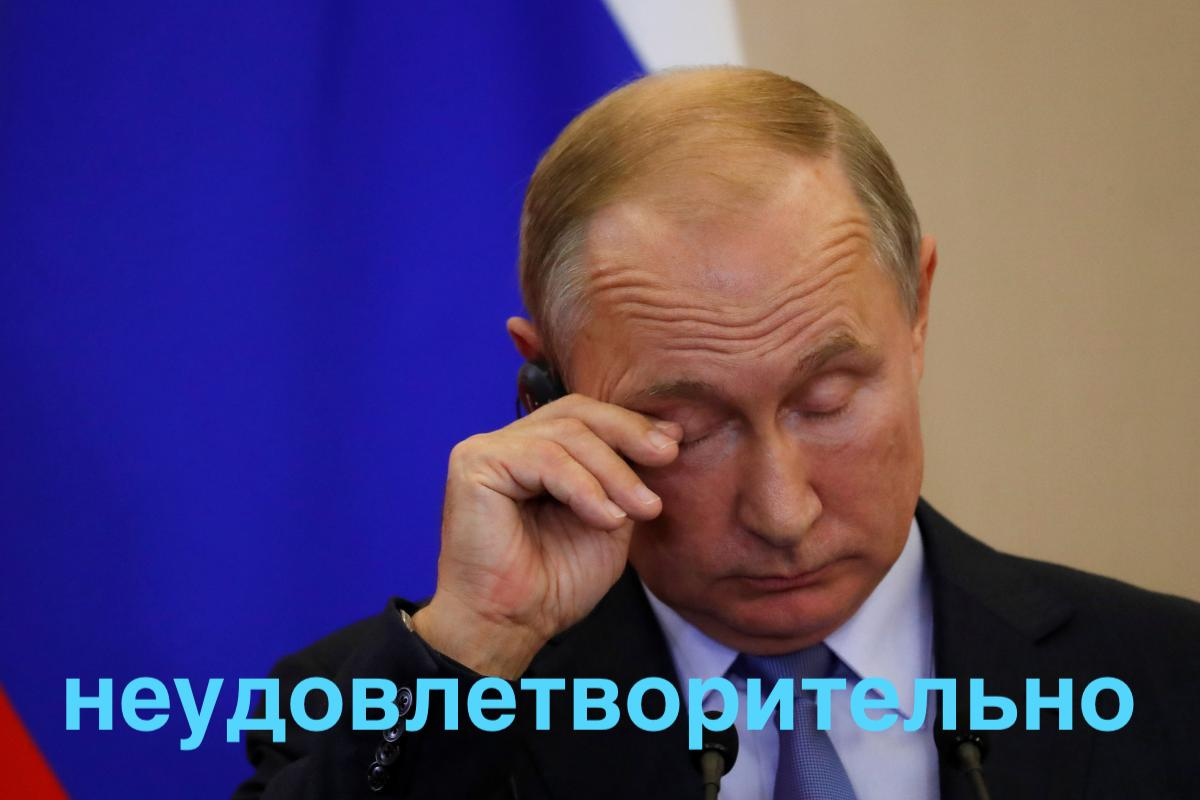
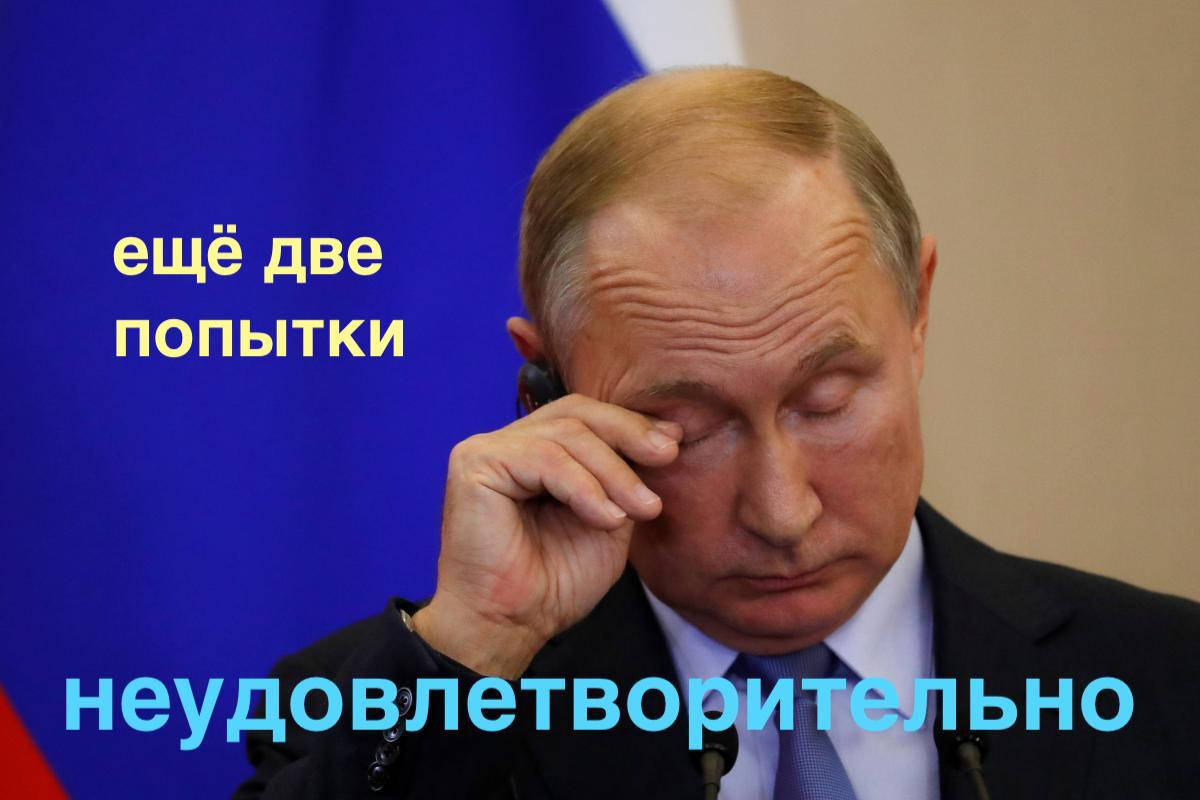
input

Changed region(s): [[0.0925, 0.2812, 0.3392, 0.4688]]

diff --git a/index.html b/index.html
@@ -6,64 +6,74 @@
     <meta name="viewport" content="width=device-width, initial-scale=1">
     <link rel="stylesheet" href="./src/styles.css">
     <link href="styles.css" rel="stylesheet">
-    <body>
-      <h1>
-        WELCOME TO <br>RUSSIAN IS STRESSFUL!
-      </h1>
-      <nav class="btn-group">
-        <button>Level I
-          <span class='button-txt'>250 most common</span>
-          <span class='button-txt'>polysyllabic words</span>
-        </button>
-        <button>Level II
-          <span class='button-txt'>250 more</span>
-          <span class='button-txt'>common polysyllabic words</span>
-        </button>
-        <button>Level III
-          <span class='button-txt'>250 Verbs with</span>
-          <span class='button-txt'>shifing stress</span>
-        </button>
-        <button>Level IV
-          <span class='button-txt'>250 more verbs with</span>
-          <span class='button-txt'>shifing stress</span>
-        </button>
-        <button>Level V
-          <span class='button-txt'>Two- and three-</span>
-          <span class='button-txt'>word phrases</span>
+  </head> 
+
+  <body>
+
+    <h1>
+      WELCOME TO <br>RUSSIAN IS STRESSFUL!
+    </h1>
+      
+    <nav class="btn-group">
+      <button>Level I
+        <span class='button-txt'>250 most common</span>
+        <span class='button-txt'>polysyllabic words</span>
+      </button>
+      <button>Level II
+        <span class='button-txt'>250 more</span>
+        <span class='button-txt'>common polysyllabic words</span>
+      </button>
+      <button>Level III
+        <span class='button-txt'>250 more</span>
+        <span class='button-txt'>polysyllabic words</span>
+      </button>
+      <button>Level IV
+        <span class='button-txt'>250 Verbs with</span>
+        <span class='button-txt'>shifing stress</span>
+      </button>
+      <button>Level V
+        <span class='button-txt'>Two- and three-</span>
+        <span class='button-txt'>word phrases</span>        
+      </button>
+    </nav>
+
+    <h2>CLICK ON THE STRESSED SYLLABLE<br>YOU HAVE FOUR CHANCES!</h2>
+
+    <div class="main">
+
+      <div>
+        <img src="./src/images/FirebirdLeft.png" class="firebird left">
+      </div>
         
-        </button>
-      </nav>
-
-  
-      <h2>CLICK ON THE STRESSED SYLLABLE:</h2>
-
-      <div class="main">
-        <div>
-          <img src="./src/images/FirebirdLeft.png" class="firebird left">
+      <div class="middle-content">
+        
+        <div class="syllables-container">
         </div>
-        <div class="middle-content">
-          <div class="syllables-container">
-     
-          </div>
-          <div class="images">
+
+        <div class="images">
           <img src='./src/images/RUSSIAN_BEAR.jpeg' class='correct-img hidden' />
           <img src='./src/images/matrioshkawithtext.jpeg' class='incorrect-img hidden' data-index='0' /> 
           <img src='./src/images/Putin.jpeg' class='incorrect-img hidden' data-index='1'/>
           <img src='./src/images/hopeless.jpeg' class='incorrect-img hidden' data-index='2'/>
-        
-          </div>
+          <img src='./src/images/gameover.jpg' class='incorrect-img hidden' data-index='3'/>
+        </div>
+
         <div>
           <button class='hidden next-button'>следующее слово</button>
         </div>
-        </div>
-          <div>
-          <img src="./src/images/FirebirdRight.png" class="firebird right">
-        </div>
-  
+
       </div>
-      <a class='link exit' href='exit.html'>выйти из сайта</a>
+
+      <div>
+        <img src="./src/images/FirebirdRight.png" class="firebird right">
+      </div>
   
-      <script src="./mock-data.js"></script>
+    </div>
+
+    <a class='link exit' href='exit.html'>выйти из сайта</a>
+      
+    <script src="./mock-data.js"></script>
     <script src="./src/main.js"></script>
+
   </body>
 </html>

diff --git a/src/main.js b/src/main.js
@@ -13,7 +13,8 @@ const randomize = (array) => {
     return array;
  }
  const mockdata = randomize(window.mockData)
-// For each of the items in the data,
+
+ // For each of the items in the data,
 // Crate a div, and within that div, created buttons for each syllable
 const boxes = mockData.map((data, index) => {
   const syllables = data.word.split(' ');
@@ -64,11 +65,14 @@ const hideIncorrectImages = () => {
 }
 
 console.log(firstItem)
+
 /**
  *     Event listeners
  */
 let counter = 0; 
 syllablesDiv.addEventListener("click", (e) => {
+
+  /* Russian Bear picture comes up for a correct answer */
   if (e.target.classList.contains("syllable-button")) {
     console.log(counter);
     if (e.target.dataset.key === e.target.dataset.idx) {
@@ -79,15 +83,18 @@ syllablesDiv.addEventListener("click", (e) => {
       nextButton.classList.remove('hidden');
 
     } else {
+    /* one of the four "incorrect answer" pictures come up, in sequence */  
       console.log("this is the wrong answer");
       correctImg.classList.add('hidden');
       hideIncorrectImages();
-      if (counter >= 2) {
+      if (counter === 3) {
+        incorrectImg =  imagesEl.querySelector("[data-index='3']")
+      } else if (counter === 2) {
         incorrectImg =  imagesEl.querySelector("[data-index='2']")
       } else if (counter === 1) {
-
         incorrectImg =  imagesEl.querySelector("[data-index='1']")
-      } else if (counter === 0) {
+      }
+       else if (counter === 0) {
         incorrectImg =  imagesEl.querySelector("[data-index='0']")
       }
       incorrectImg.classList.remove('hidden');
@@ -117,6 +124,5 @@ nextButton.addEventListener("click", (e) => {
   hideIncorrectImages();
   nextButton.classList.add('hidden');
   counter = 0; 
-
  
 });

diff --git a/src/styles.css b/src/styles.css
@@ -25,7 +25,6 @@ h3, p {
 .btn-group button {
   width: 20%;
   background-color:orange;
-
 }
 
 button:hover {
@@ -84,9 +83,6 @@ button:hover {
   display: block;
   margin-left: auto;
   margin-right: auto;
-
-/*  align-items: center;
-  justify-content: center;
   */width: 50%;
 }
 
@@ -106,9 +102,9 @@ button:hover {
 .translation .content,
 .inflection .content {
   color: white;
-
 }
 
 .next-button {
   width: 100%;
+  font-size: 20px;
 }
